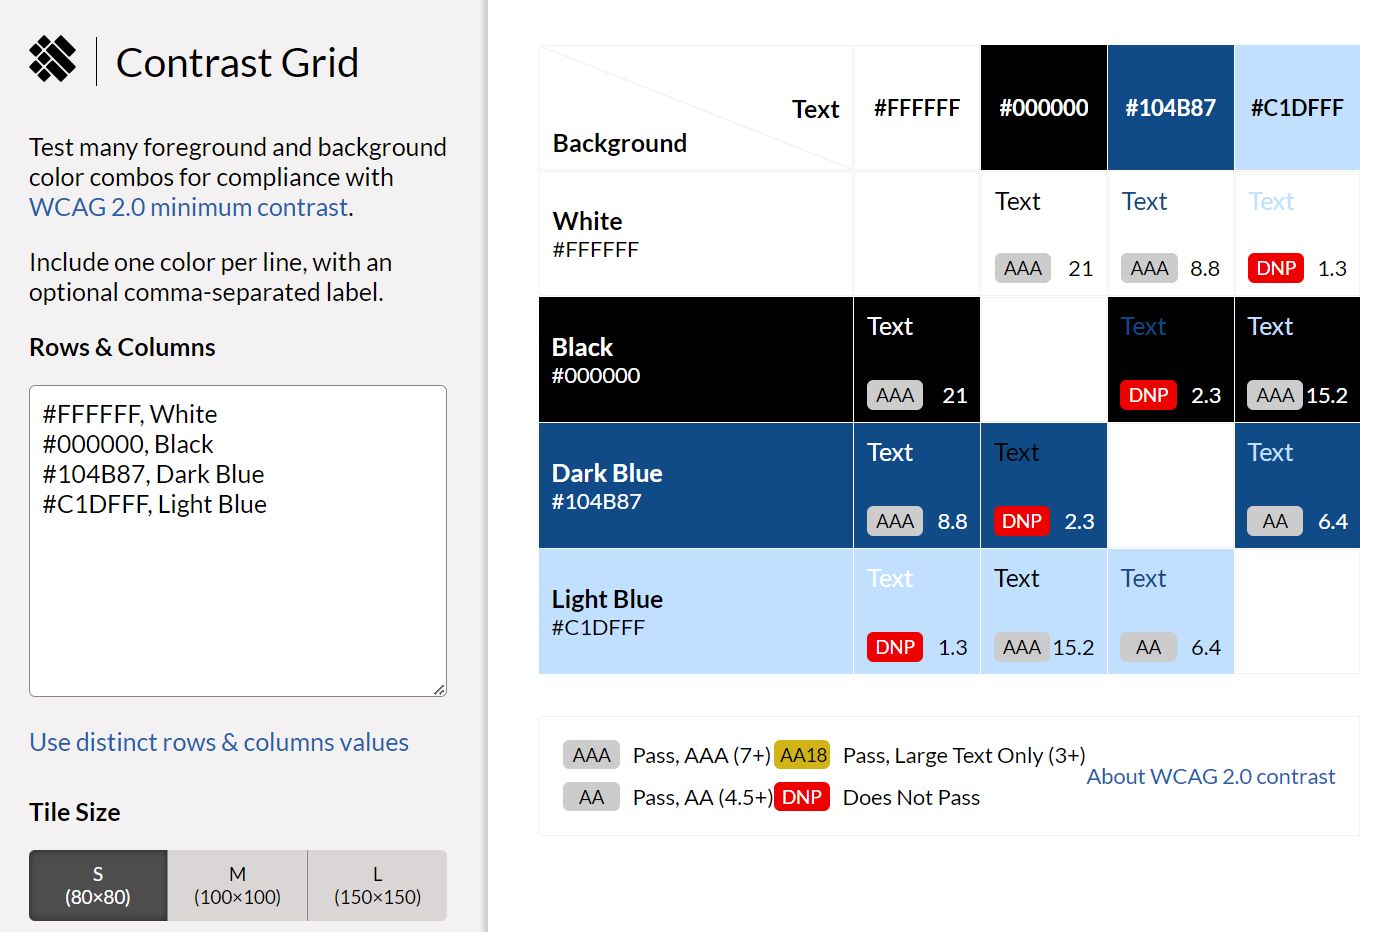
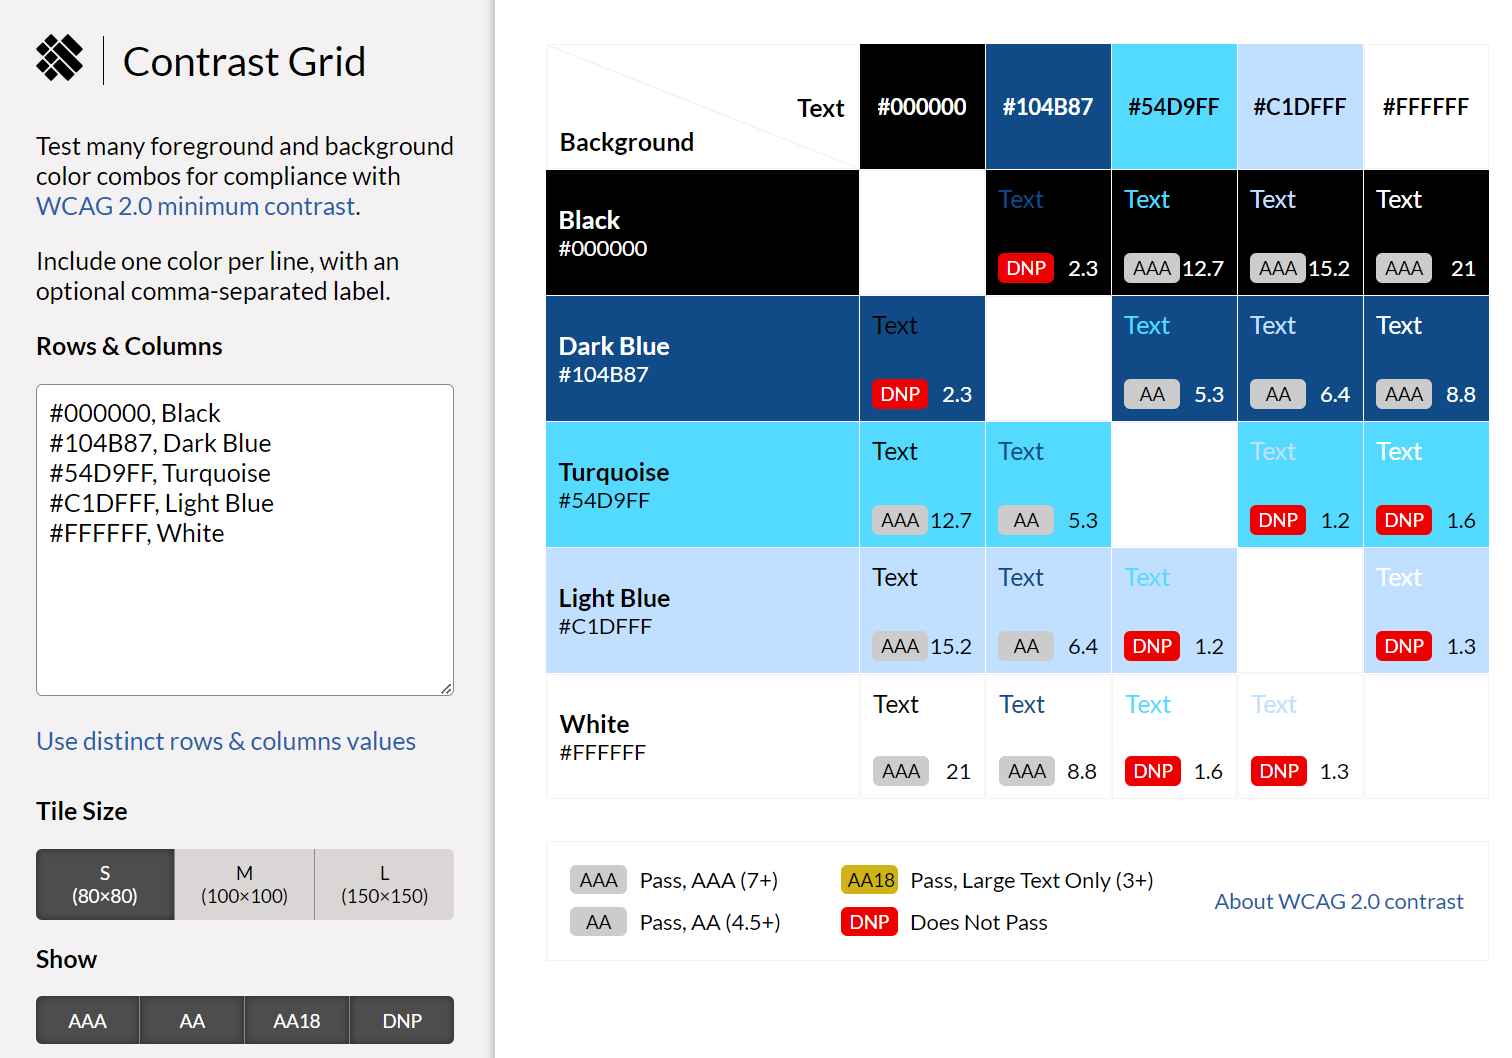
Update color scheme on README

diff --git a/README.md b/README.md
@@ -37,19 +37,22 @@
     
 -   #### Colour Palette
 
-    - The colour palette is made up of four colours: 
+    - The colour palette is made up of five colours: 
         - Dark Blue #104B87
+        - Turquoise #54D9FF
         - Light Blue #C1DFFF
         - Black #000000
         - White #FFFFFF
 
-    - The Dark Blue #104B87 was chosen for its visual appeal to most users, and as a contrast with the rest of the app.
+    - The Dark Blue #104B87 was chosen for its neutral and visual appeal to most users, and as a contrast with the rest of the app. It is used for headings and icons on the components to make these stand out.
+
+    - The Turquoise #54D9FF adds a pop of colour, and is used on icons and buttons throughout, indicating hovered or selected actions. It also creates a nice contrast to the dark blue. 
     
-    - The Light Blue #C1DFFF is used on the general background of the web app and for any hover elements on the navbar - distinguishing from the White #FFFFFF but remaining visible nonetheless.
+    - The Light Blue #C1DFFF is used on the general background of the web app, making the white components stand out, through contrast. 
 
     - The White #FFFFFF is uses as a neutral tone throughout and in particular for the navbar text, and background color to all components.
     
-    - The Black #000000 is used as a neutral tone throughout and in particular for the text on the light blue background, and for any hover effects on the dark blue icons and text items. 
+    - The Black #000000 is used as a neutral tone throughout and in particular for the text on white background, and to indicate when no clickable action is possible when hovering on the dark blue icons.
     
     - Compatibility with each other, and accessibility, were taken into account for all four colours.
 
